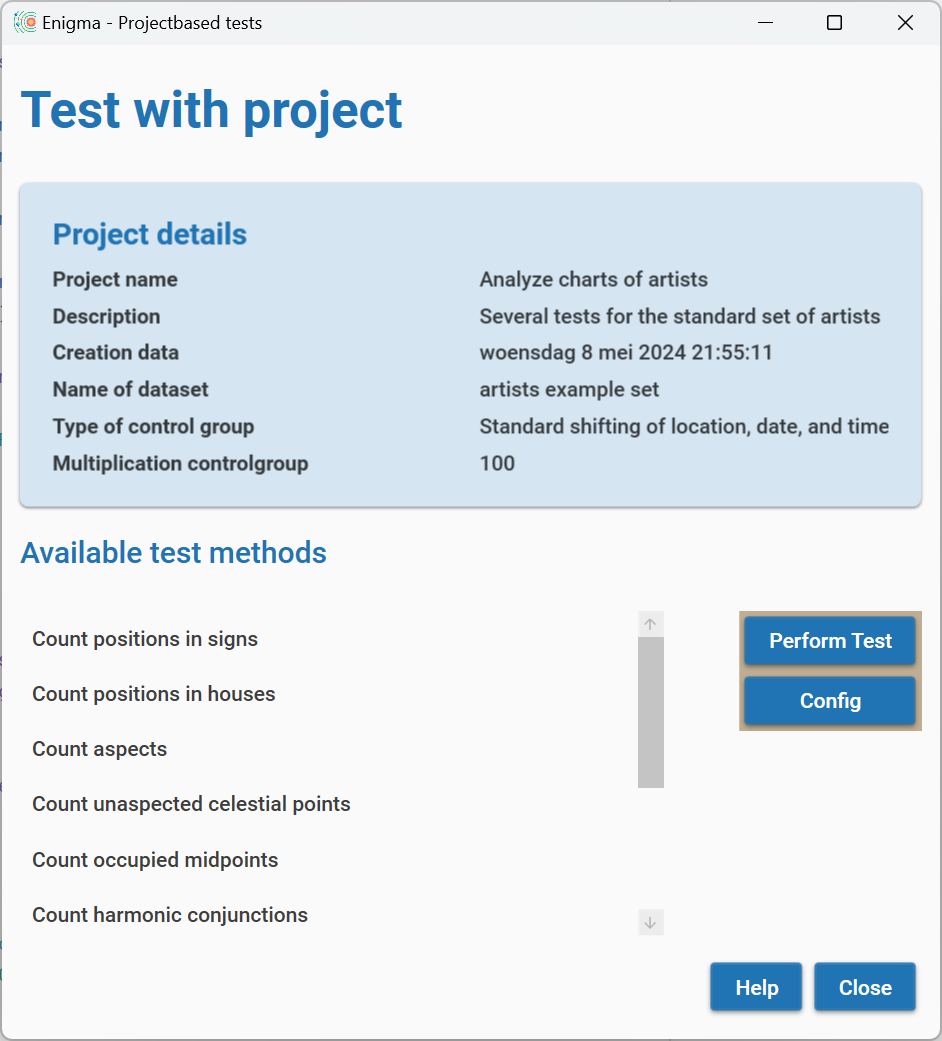
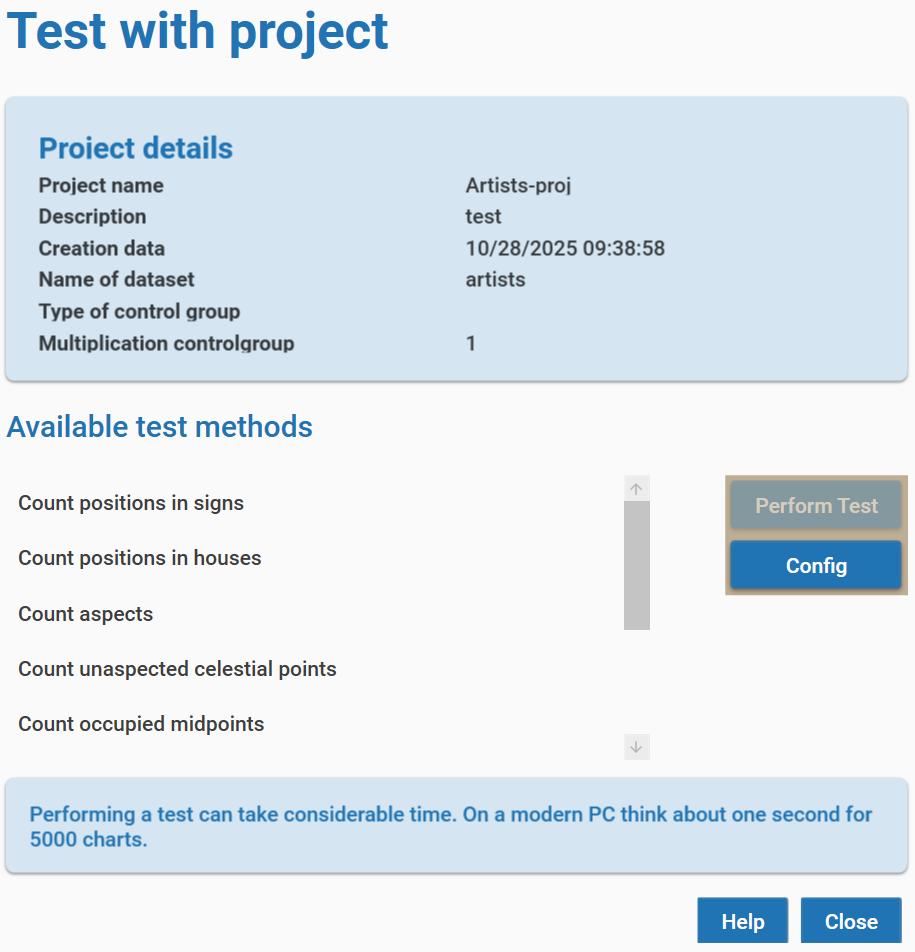
Update user manual and help for project usage.

diff --git a/Enigma/Enigma.Frontend/res/help/ProjectUsage-en.html b/Enigma/Enigma.Frontend/res/help/ProjectUsage-en.html
@@ -10,12 +10,14 @@
 <p>The bottom half of the screen shows the available test methods.
     You can perform a method, using the data set for this project, by selecting it in the list and clicking the button
     <strong>Perform test</strong>.
-    In subsequent screens you will be asked for more details. The type of details will depend on the type of the selected test.</p>
-<p>Please note that your options will be limited to the definitions as defined in the configuration.
+    Please note the message about the time it takes to perform a test. Take the multiplication factor for the 
+    controlgroup into account: 100 charts with a multiplication factor of 1000 rsults in 100100 charts.</p>
+<p>In subsequent screens you will be asked for more details. The type of details will depend on the type of the selected test.</p>
+<p>Your options will be limited to the definitions as defined in the configuration.
     If you did not include a specific celestial body or aspect in the configuration, you cannot use it in your test.
     And orbs in the configuration remain active. If you want to check, or change, the configuration, you can click the
     button <strong>Configuration</strong>.
-    This will open the standard screen to define a configuration and you can change this. After closing this screen, the
+    This will open the standard screen to define a configuration, and you can change this. After closing this screen, the
     new configuration will be immediately active. </p>
 
 </body>

diff --git a/Enigma/docs/md/User-Manual/Research.md b/Enigma/docs/md/User-Manual/Research.md
@@ -84,6 +84,10 @@ You will also see a button **Config**. By clicking this button, you can access t
 
 Select the test that you want to perform and click the button **Perform Test**. Depending on the type of test, you will need to enter additional information.
 
+These tests can take very long.
+
+
+
 ### Select celestial points
 
 <img src="img/research-select-points.png" style="zoom: 50%;" />
